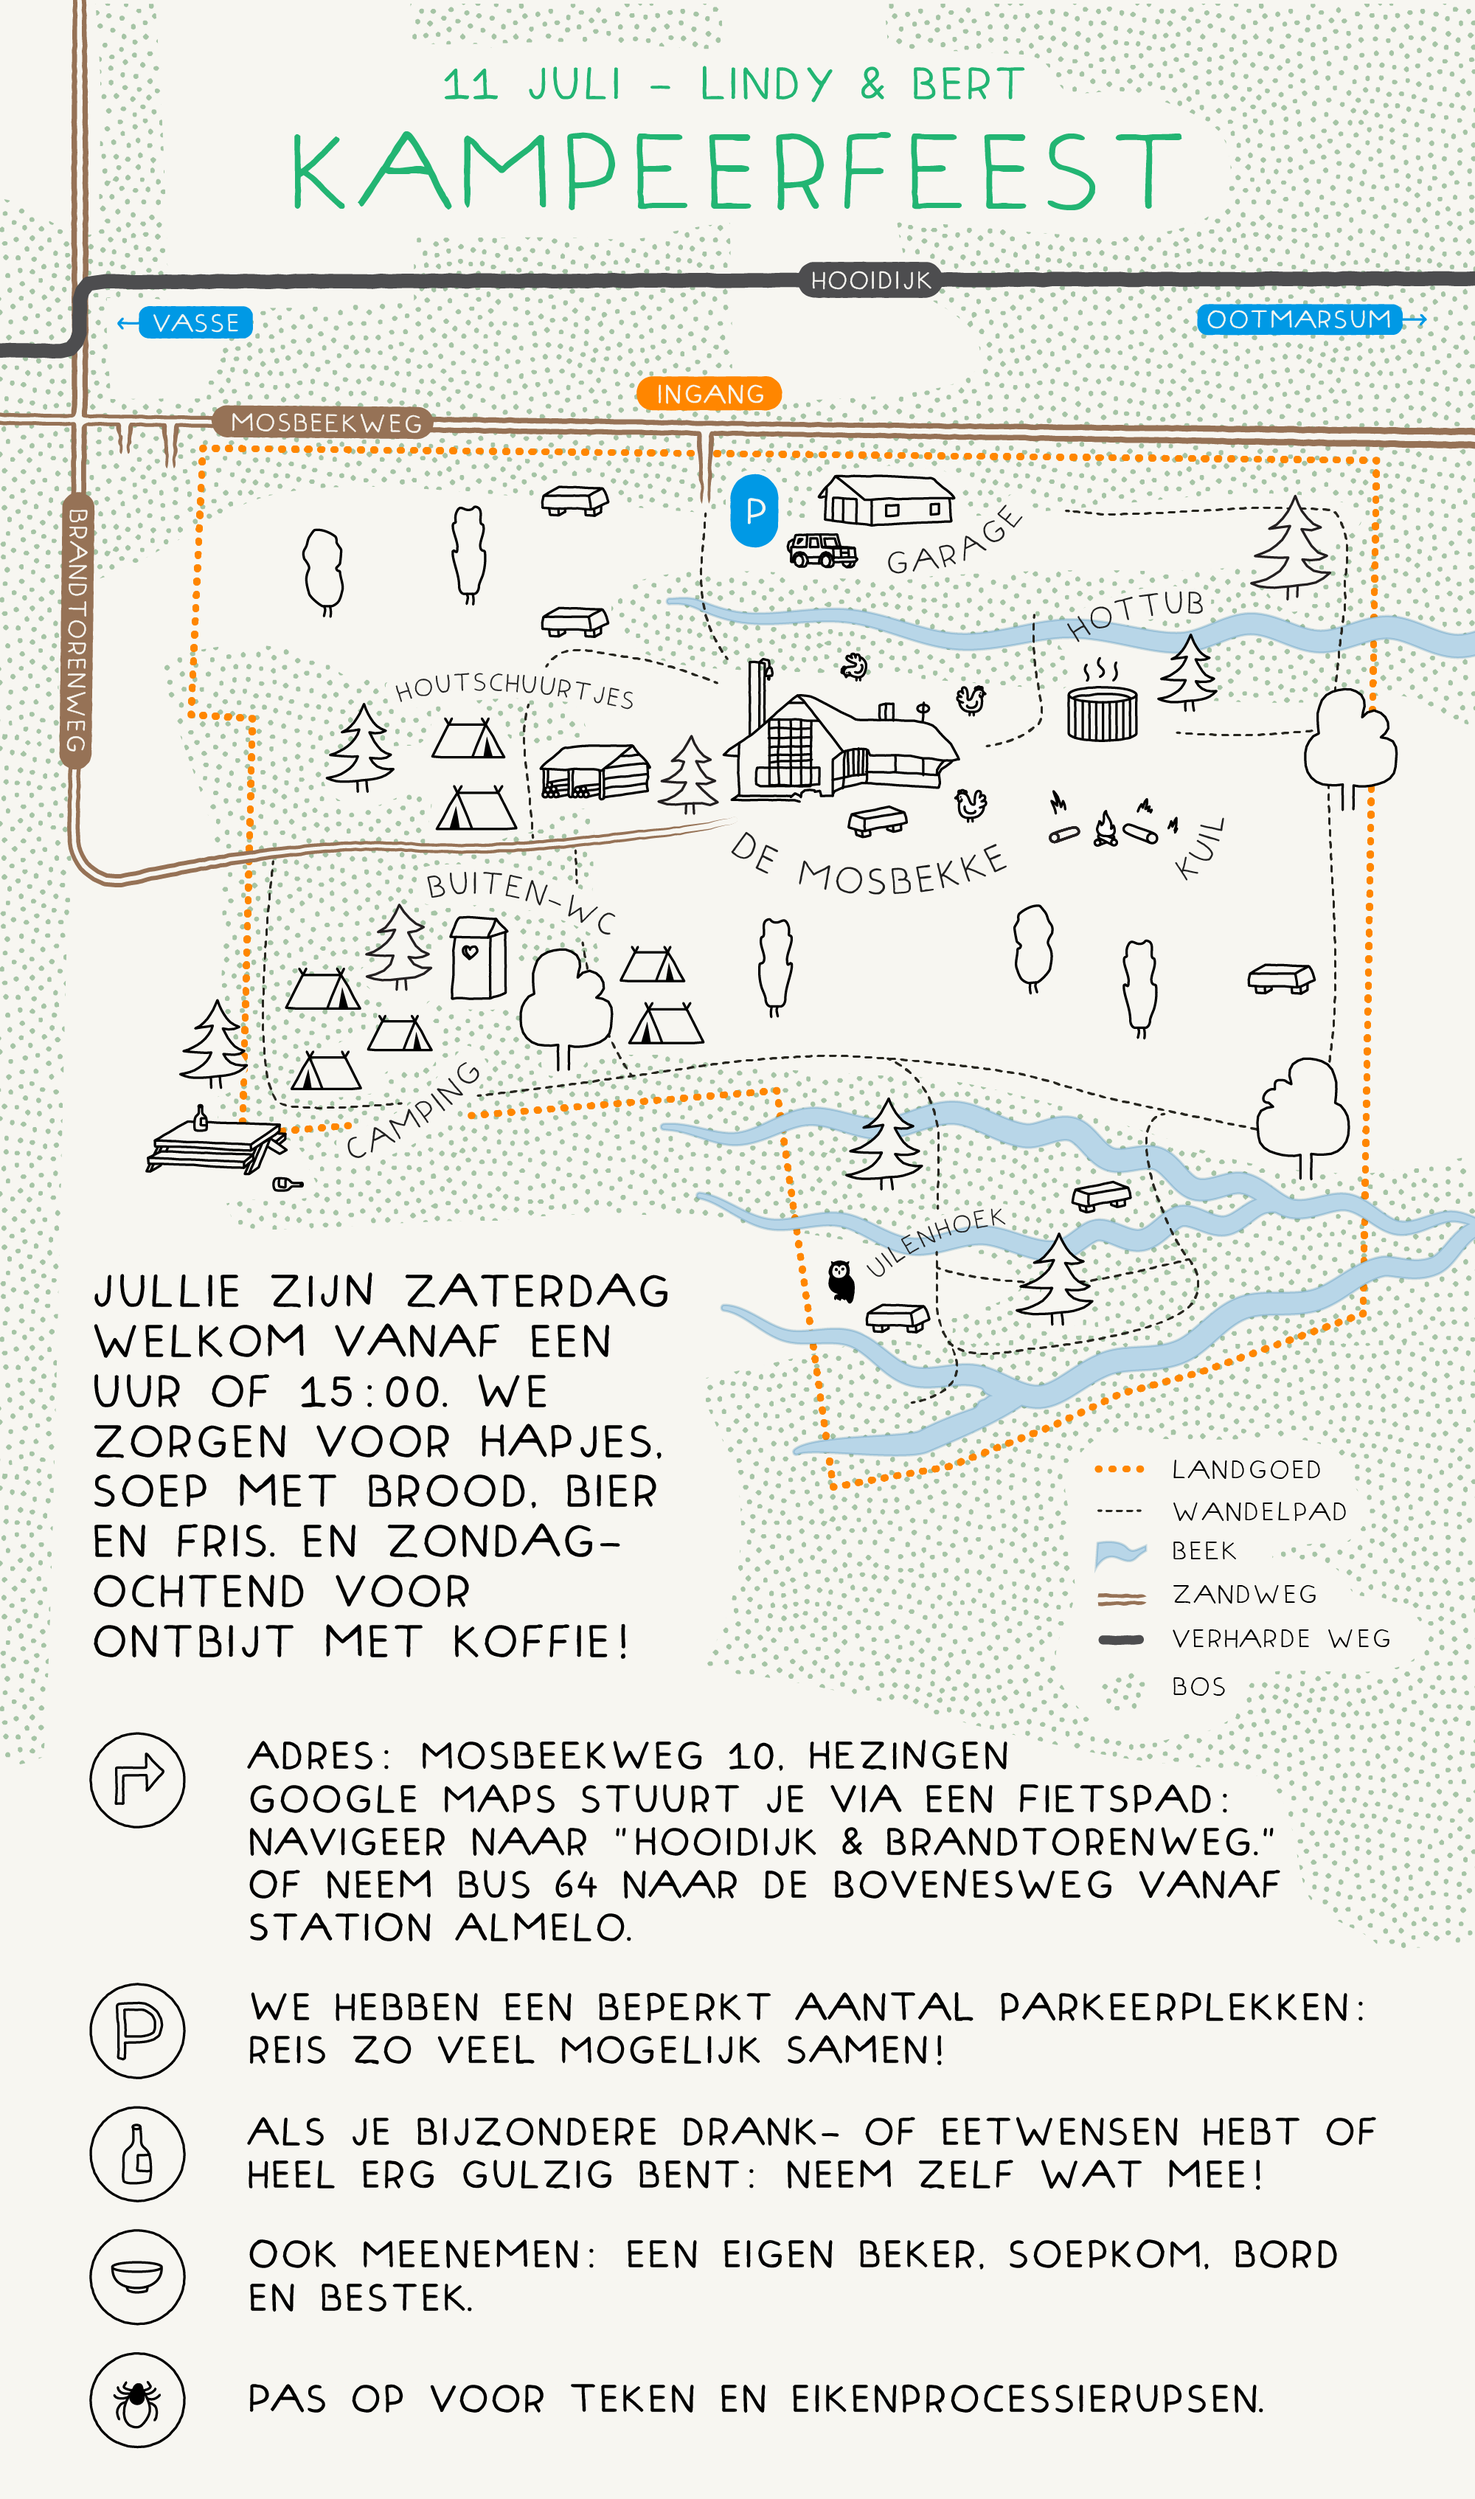
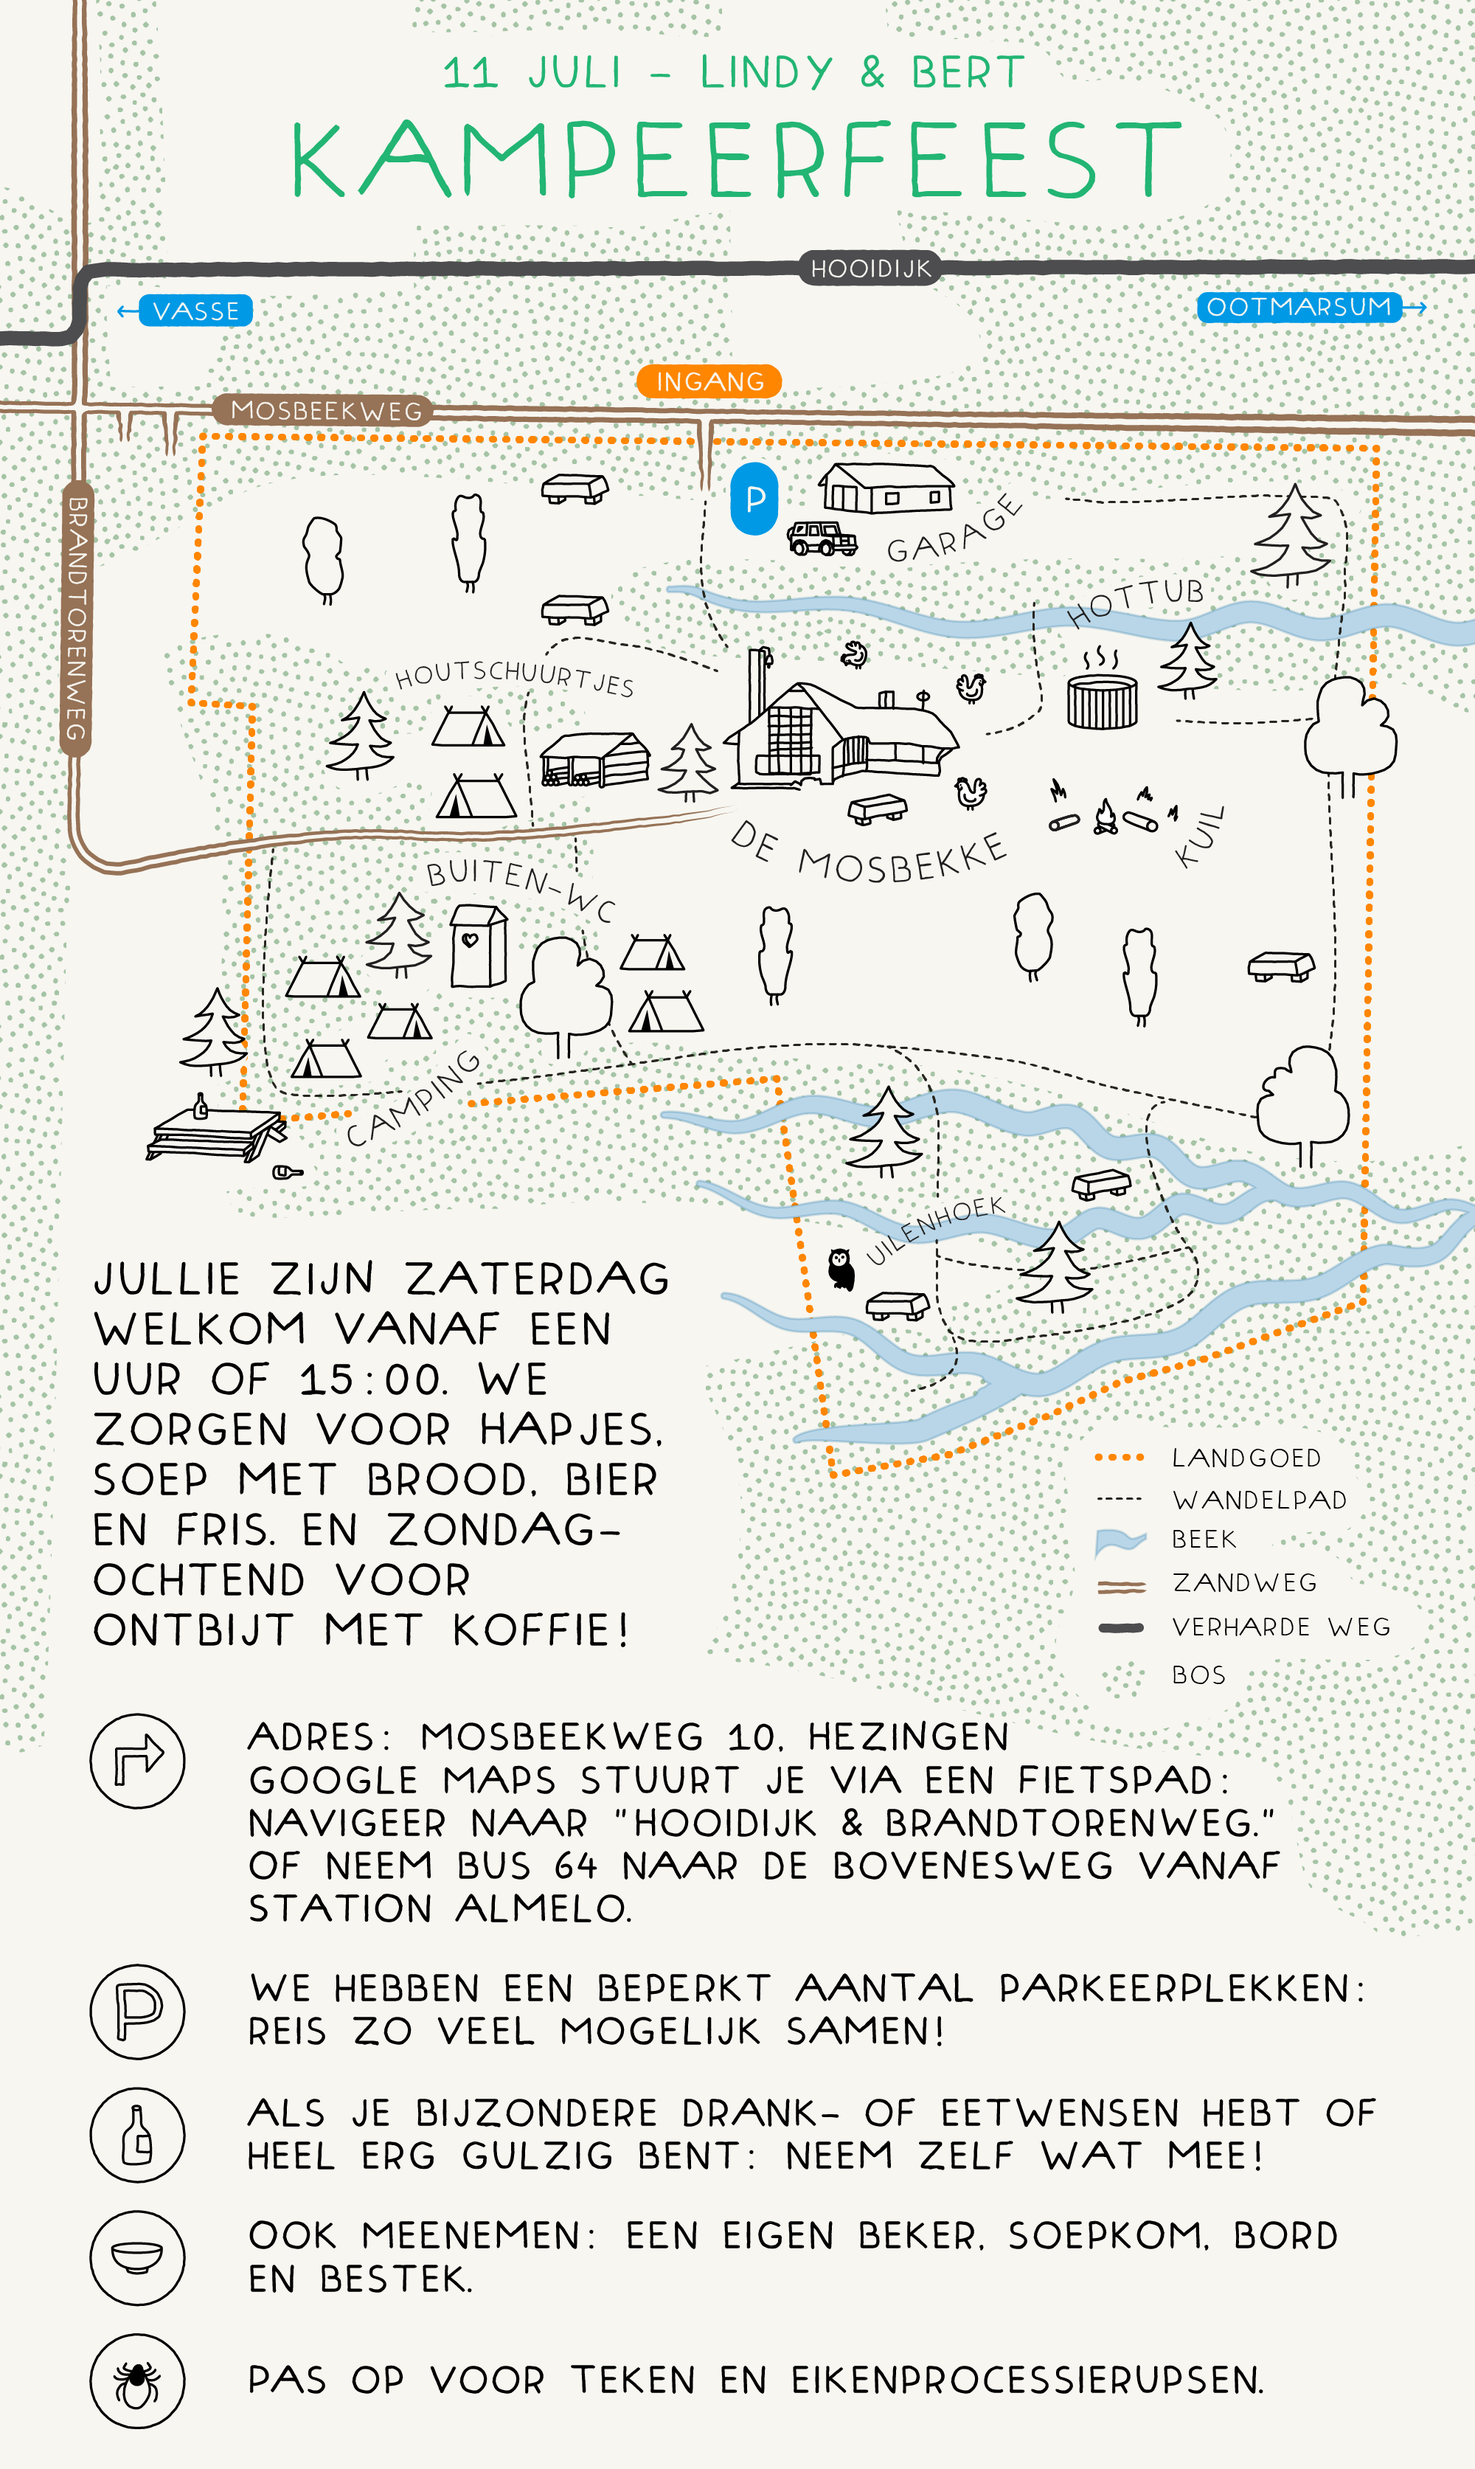
JPG!

diff --git a/kampeerfeest-lindy-bert/index.html b/kampeerfeest-lindy-bert/index.html
@@ -5,7 +5,7 @@
   <title>11 juli - Kampeerfeest - Lindy & Bert</title>
   <meta name="description" content="11 juli - Kampeerfeest - Lindy & Bert">
   <meta property="og:title" content="11 juli - Kampeerfeest - Lindy & Bert" />
-  <meta property="og:image" content="opengraph.png" />
+  <meta property="og:image" content="opengraph.jpg" />
   <style>
     body {
       margin: 0;
@@ -23,6 +23,6 @@
   </style>
 </head>
 <body>
-  <img class="mosbekke" src="kampeerfeest.png" />
+  <img class="mosbekke" src="kampeerfeest.jpg" />
 </body>
 </html>
